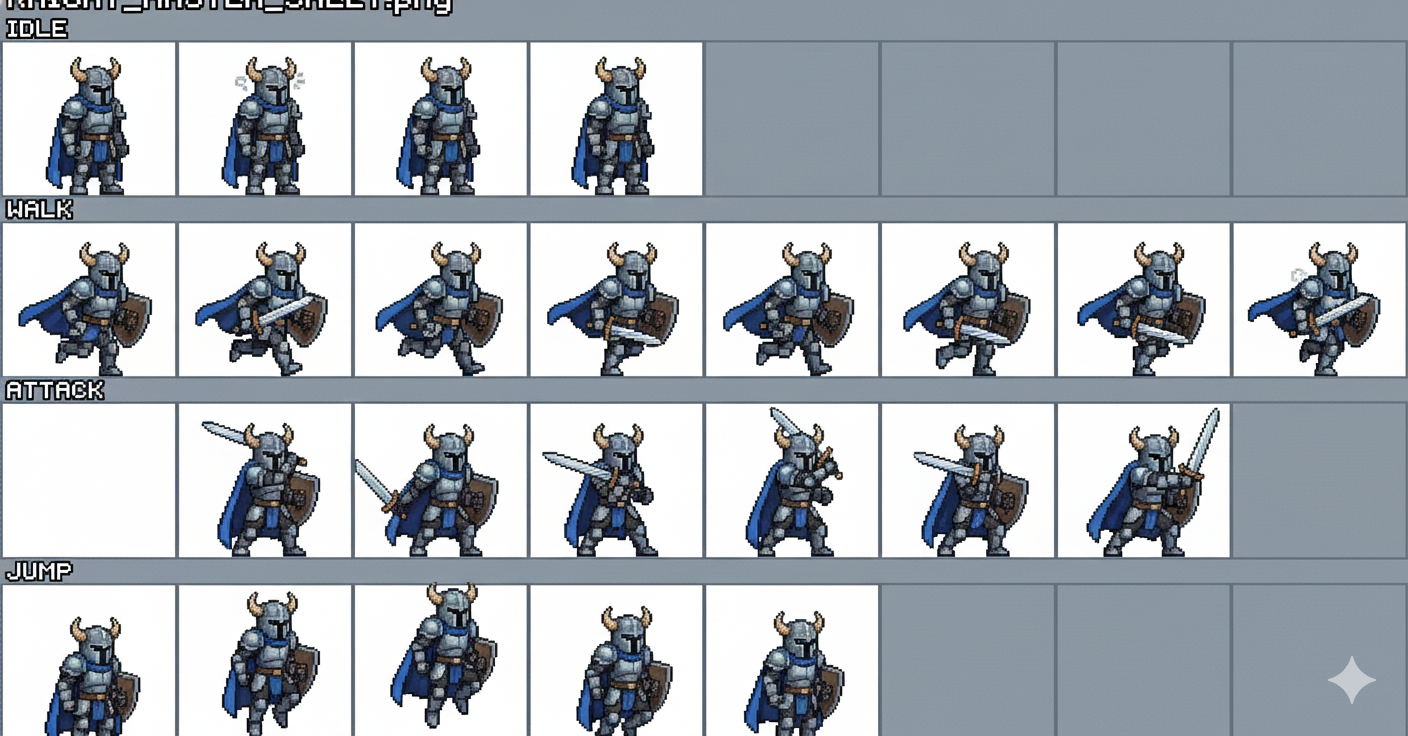
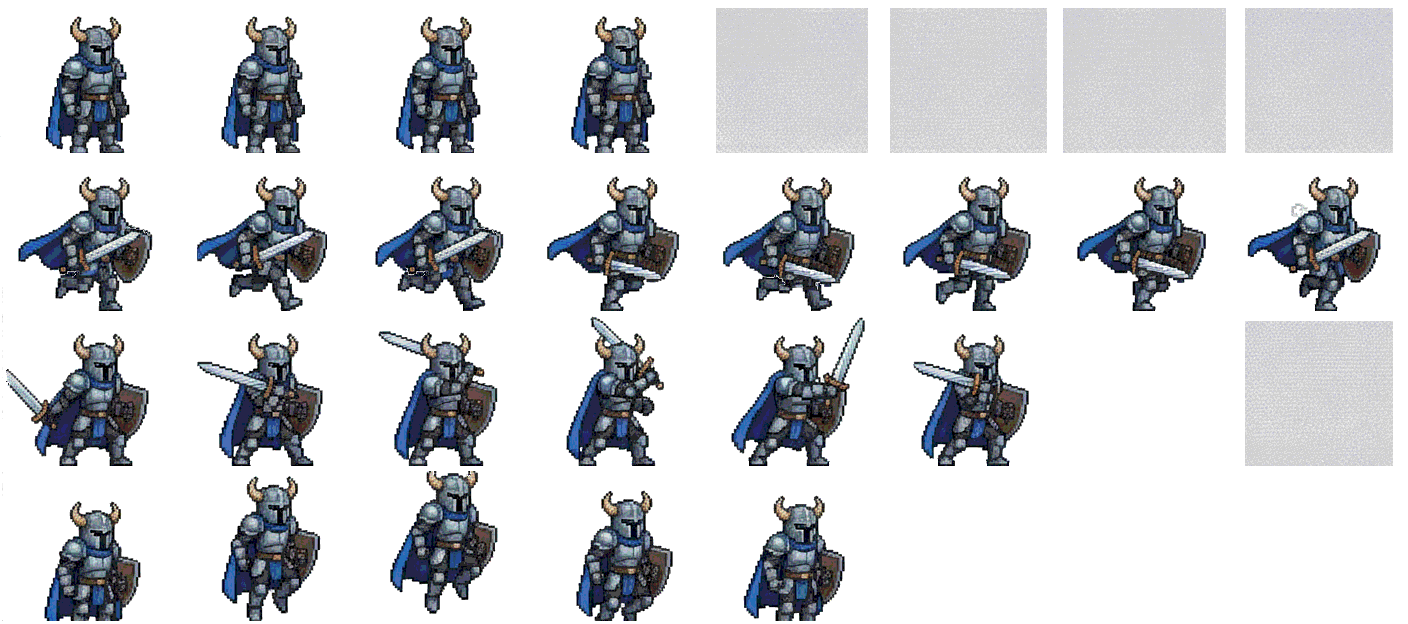
add attack

diff --git a/zedla.py b/zedla.py
@@ -1,123 +1,159 @@
 import pygame
 import sys
 
-# Constants
-SCREEN_WIDTH = 800
-SCREEN_HEIGHT = 400
+# --- Configuration ---
+SCREEN_WIDTH = 1600
+SCREEN_HEIGHT = 800
 FPS = 60
 GRAVITY = 0.8
 
-# Animation Metadata (Matching the generated image)
-# Format: row_index, number_of_frames
+# Animation Map: (Row Index, Number of Frames)
 ANIMATION_MAP = {
     "idle": (0, 4),
     "walk": (1, 8),
-    "attack": (2, 7),
+    "attack": (2, 6),
     "jump": (3, 5)
 }
 
-class Player(pygame.sprite.Sprite):
-    def __init__(self, sheet_path):
+class Entity(pygame.sprite.Sprite):
+    """Base class for Player and Enemy to share animation logic."""
+    def __init__(self, sheet_path, pos):
         super().__init__()
-        # Load the sheet and setup dimensions
         self.sprite_sheet = pygame.image.load(sheet_path).convert_alpha()
-        self.frame_width = self.sprite_sheet.get_width() // 8
-        self.frame_height = self.sprite_sheet.get_height() // 4
-        
-        # State variables
+        self.frame_width = 172  
+        self.frame_height = 152
         self.state = "idle"
         self.frame_index = 0
         self.animation_speed = 0.15
-        self.image = self.get_frame(0, 0)
-        self.rect = self.image.get_rect(midbottom=(100, SCREEN_HEIGHT - 50))
-        
-        # Movement variables
-        self.velocity_y = 0
-        self.speed = 5
         self.facing_right = True
+        self.image = self.get_frame(0, 0)
+        self.rect = self.image.get_rect(midbottom=pos)
+        self.velocity_y = 0
 
     def get_frame(self, row, col):
-        """Cuts a specific frame out of the master sheet."""
-        rect = pygame.Rect(col * self.frame_width, row * self.frame_height, 
-                           self.frame_width, self.frame_height)
-        return self.sprite_sheet.subsurface(rect)
-
-    def handle_input(self):
-        keys = pygame.key.get_pressed()
-        moving = False
-
-        if keys[pygame.K_LEFT]:
-            self.rect.x -= self.speed
-            self.facing_right = False
-            self.state = "walk"
-            moving = True
-        elif keys[pygame.K_RIGHT]:
-            self.rect.x += self.speed
-            self.facing_right = True
-            self.state = "walk"
-            moving = True
-        
-        if not moving:
-            self.state = "idle"
-
-        if keys[pygame.K_SPACE] and self.rect.bottom >= SCREEN_HEIGHT - 50:
-            self.velocity_y = -15
-            
-        if self.rect.bottom < SCREEN_HEIGHT - 50:
-            self.state = "jump"
-
-    def apply_gravity(self):
-        self.velocity_y += GRAVITY
-        self.rect.y += self.velocity_y
-        if self.rect.bottom > SCREEN_HEIGHT - 50:
-            self.rect.bottom = SCREEN_HEIGHT - 50
+        x = 5 + col * 175
+        y = 5 + row * 155
+        rect = pygame.Rect(x, y, self.frame_width, self.frame_height)
+        try:
+            return self.sprite_sheet.subsurface(rect)
+        except ValueError:
+            return pygame.Surface((self.frame_width, self.frame_height), pygame.SRCALPHA)
 
     def animate(self):
         row, max_frames = ANIMATION_MAP[self.state]
         self.frame_index += self.animation_speed
-        
         if self.frame_index >= max_frames:
             self.frame_index = 0
-            
-        # Get frame and flip if facing left
-        image = self.get_frame(row, int(self.frame_index))
-        if not self.facing_right:
-            image = pygame.transform.flip(image, True, False)
         
-        self.image = image
+        new_image = self.get_frame(row, int(self.frame_index))
+        if not self.facing_right:
+            new_image = pygame.transform.flip(new_image, True, False)
+        self.image = new_image
+
+class Enemy(Entity):
+    def __init__(self, sheet_path, pos):
+        super().__init__(sheet_path, pos)
+        self.speed = 2
+        self.move_range = 300
+        self.start_x = pos[0]
+        self.state = "walk"
+
+    def update(self):
+        # Simple AI: Patrol back and forth
+        if self.facing_right:
+            self.rect.x += self.speed
+            if self.rect.x > self.start_x + self.move_range:
+                self.facing_right = False
+        else:
+            self.rect.x -= self.speed
+            if self.rect.x < self.start_x - self.move_range:
+                self.facing_right = True
+        
+        self.animate()
+
+class Player(Entity):
+    def __init__(self, sheet_path, pos):
+        super().__init__(sheet_path, pos)
+        self.speed = 7
+        self.is_jumping = False
+        self.is_attacking = False
+
+    def handle_input(self):
+        keys = pygame.key.get_pressed()
+        moving = False
+        if keys[pygame.K_LEFT]:
+            self.rect.x -= self.speed
+            self.facing_right = False
+            moving = True
+        elif keys[pygame.K_RIGHT]:
+            self.rect.x += self.speed
+            self.facing_right = True
+            moving = True
+        
+        if keys[pygame.K_SPACE] and not self.is_jumping:
+            self.velocity_y = -18
+            self.is_jumping = True
+
+        self.is_attacking = keys[pygame.K_a]
+
+        if self.is_jumping: self.state = "jump"
+        elif self.is_attacking: self.state = "attack"
+        elif moving: self.state = "walk"
+        else: self.state = "idle"
+
+    def apply_physics(self):
+        self.velocity_y += GRAVITY
+        self.rect.y += self.velocity_y
+        floor_y = SCREEN_HEIGHT - 50
+        if self.rect.bottom > floor_y:
+            self.rect.bottom = floor_y
+            self.velocity_y = 0
+            self.is_jumping = False
 
     def update(self):
         self.handle_input()
-        self.apply_gravity()
+        self.apply_physics()
         self.animate()
 
-# Initialize Pygame
-pygame.init()
-screen = pygame.display.set_mode((SCREEN_WIDTH, SCREEN_HEIGHT))
-clock = pygame.time.Clock()
+def main():
+    pygame.init()
+    screen = pygame.display.set_mode((SCREEN_WIDTH, SCREEN_HEIGHT))
+    clock = pygame.time.Clock()
 
-# Setup Player
-# Save the sprite sheet from the previous message as 'knight.png'
-try:
-    player = Player('knight.png')
+    # Load Background (Optional: replace with an image load)
+    # bg_surface = pygame.image.load('background.png').convert()
+    
+    player = Player('knight.png', (200, SCREEN_HEIGHT - 50))
+    enemy = Enemy('monster.png', (1000, SCREEN_HEIGHT - 50))
+    
     player_group = pygame.sprite.GroupSingle(player)
-except:
-    print("Error: Please ensure 'knight.png' is in the folder.")
-    pygame.quit()
-    sys.exit()
+    enemies = pygame.sprite.Group(enemy)
 
-# Main Loop
-while True:
-    for event in pygame.event.get():
-        if event.type == pygame.QUIT:
-            pygame.quit()
-            sys.exit()
+    while True:
+        for event in pygame.event.get():
+            if event.type == pygame.QUIT:
+                pygame.quit()
+                sys.exit()
 
-    screen.fill((50, 50, 50)) # Dark background
-    pygame.draw.rect(screen, (100, 100, 100), (0, SCREEN_HEIGHT-50, SCREEN_WIDTH, 50)) # Floor
-    
-    player_group.update()
-    player_group.draw(screen)
-    
-    pygame.display.update()
-    clock.tick(FPS)
+        # Update
+        player_group.update()
+        enemies.update()
+
+        # Draw
+        screen.fill((20, 20, 40)) # Dark night sky
+        
+        # Draw a simple mountain background (Parallax effect can be added here)
+        pygame.draw.polygon(screen, (40, 40, 60), [(0, 750), (400, 200), (800, 750)])
+        pygame.draw.polygon(screen, (35, 35, 55), [(600, 750), (1000, 300), (1400, 750)])
+        
+        # Draw Floor
+        pygame.draw.rect(screen, (30, 50, 30), (0, SCREEN_HEIGHT-50, SCREEN_WIDTH, 50)) 
+        
+        player_group.draw(screen)
+        enemies.draw(screen)
+
+        pygame.display.flip()
+        clock.tick(FPS)
+
+if __name__ == "__main__":
+    main()
